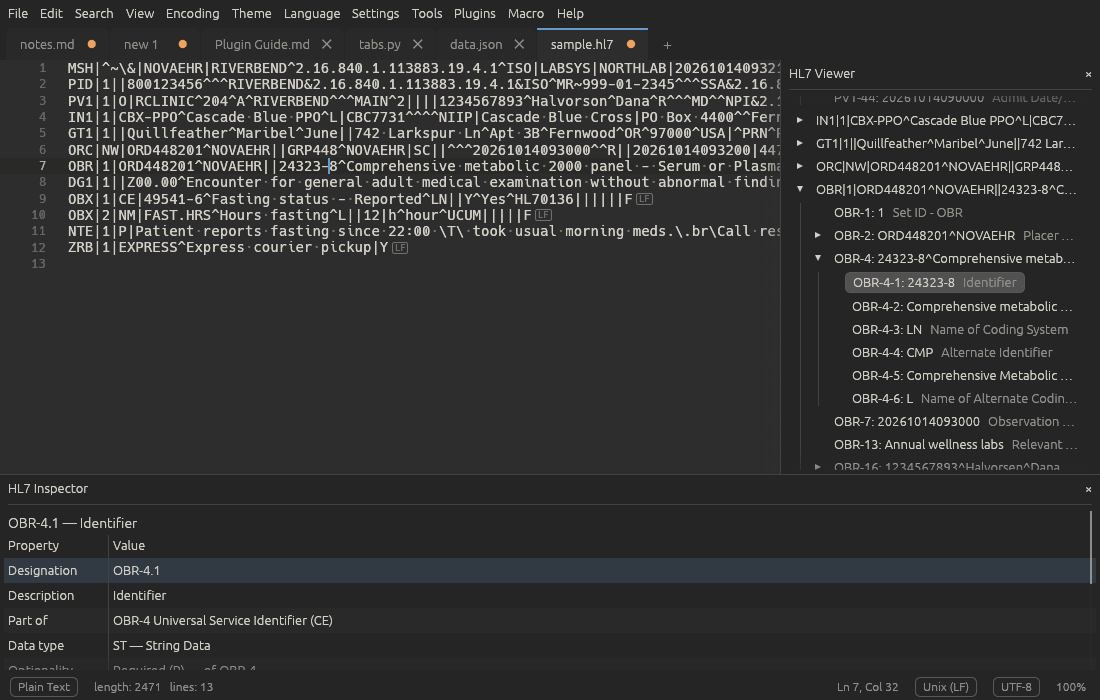
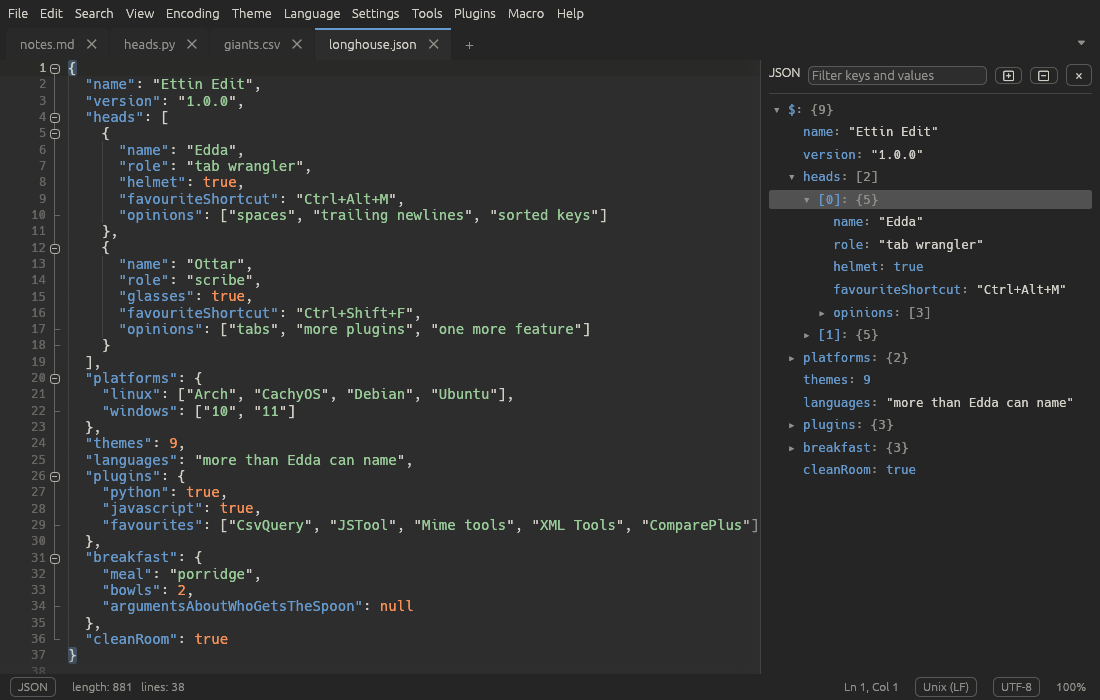
Friendlier README with the Edda and Ottar mascot and a JSON screenshot
The front page now opens with an original two-headed ettin mascot, a
feature summary table, an install table, a plugin example and a short
FAQ. The screenshot shows a JSON file with the JSON tree panel instead
of HL7, and the code layout table moves into a collapsed section.

Claude-Session: https://claude.ai/code/session_01Ej52JTQM4oZFRSUENRuK13

diff --git a/README.md b/README.md
@@ -1,68 +1,126 @@
-# Ettin Edit
+<p align="center">
+  <img src="docs/mascot/ettin.svg" width="240" alt="Edda and Ottar, the two-headed Ettin Edit mascot, holding a scroll and a quill">
+</p>
 
-A modern, cross-platform text editor for Linux and Windows, inspired by Notepad++.
-Ettin Edit is an original, clean-room implementation written in Rust: it shares no code with Notepad++.
+<h1 align="center">Ettin Edit</h1>
 
-![Ettin Edit dark theme](docs/screenshots/dark.png)
+<p align="center">
+  <b>A text editor with two heads, because one opinion about tabs was never enough.</b><br>
+  Fast, friendly and free of Notepad++ code. Runs on Linux and Windows.
+</p>
 
-## Status
+<p align="center">
+  <a href="https://github.com/Tharkis/Ettin-Edit/releases/latest"><img alt="Latest release" src="https://img.shields.io/github/v/release/Tharkis/Ettin-Edit?color=6699CC&label=release"></a>
+  <img alt="Linux and Windows" src="https://img.shields.io/badge/runs%20on-Linux%20%7C%20Windows-CC99CC">
+  <img alt="Written in Rust" src="https://img.shields.io/badge/written%20in-Rust-F99157">
+  <img alt="Plugins in Python or JavaScript" src="https://img.shields.io/badge/plugins-Python%20%7C%20JavaScript-99CC99">
+</p>
 
-Ettin Edit 1.0 makes it yours. Settings > Preferences (Ctrl+,) sets the editor font
-from your installed fonts, tab width, new-document defaults and more; the Shortcut
-Mapper rebinds any command; Theme > Edit Theme Colours changes any colour with a live
-preview; and F1 opens a command palette. New panels show a function list, a document
-map and a folder as a workspace, and F11 hides everything but the text. There are 17
-more languages (TOML, INI, TypeScript, PowerShell, Dockerfile, HL7, Kotlin, Swift and
-others) and you can add your own with a short `.lang.json` file
-([docs/languages.md](docs/languages.md)). XML Tools validate against an XSD or DTD and
-run XSL transforms. File > Print goes through your browser's print preview, Help >
-Check for Updates looks for new releases, and Plugins > Manage Plugins installs,
-updates and removes plugins. Windows gets an installer and Debian/Ubuntu a `.deb`.
+<p align="center">
+  <a href="#install">Install</a> ·
+  <a href="#what-it-does">Features</a> ·
+  <a href="#plugins">Plugins</a> ·
+  <a href="#building">Build</a> ·
+  <a href="FEATURES.md">Full feature list</a>
+</p>
 
-Release 0.10 renamed NixPad to Ettin Edit (settings, sessions, themes and plugins are
-copied over the first time it starts). Ettin Dark, based on Base16 Eighties, is the new
-default theme, and every built-in theme is now a file in the themes folder that you can
-edit. Tabs show as an arrow across their full width when whitespace is shown, and code
-folding has boxed −/+ markers with lines showing where each region starts and ends. The
-new HL7 Viewer plugin shows HL7 v2 messages as a tree and explains any field: its
-designation, name, data type, optionality and repeatability, with a box to change it.
-Release 0.9 added plugins in Python or JavaScript. A plugin can read and change text,
-open and save files, add menu commands and shortcuts, react to events and show panels
-with trees, tables and forms. Plugins > Install Sample Plugins adds them to try, and
-Plugins > Plugin Guide explains how to write your own ([docs/plugins.md](docs/plugins.md)).
-Release 0.8 added CsvQuery: SQL over the CSV or TSV file you have open, with joins
-across open tabs, a sortable results grid, column statistics, and results to a new tab.
-Release 0.7 added split view (two tabs side by side, or one document in both views)
-and Compare, a built-in take on ComparePlus: compare two tabs, the last save, the
-clipboard, the last Git commit or two selections, with word-level highlights, moved
-blocks, an overview bar and patch export. Release 0.6 added the Tools menu, with built-in versions of three favourite Notepad++
-plugins. JSON and JavaScript tools format, minify, validate and sort, with a live JSON
-tree. MIME tools cover Base64, URL, quoted-printable, HTML entities and SAML. XML tools
-pretty print, check syntax (optionally on save), run XPath queries, show the current
-XPath on the status bar, and close tags as you type. Release 0.6.1 put the Edit and Tools menus in the editor's right-click menu. It all builds on 0.5's encodings,
-backups and file commands, 0.4's editing tools, 0.3's search and 0.2's editor engine.
-See [FEATURES.md](FEATURES.md) for what works today and what is still missing.
+---
 
-## Installing
+## Meet the heads
 
-Download the latest build from the
+In Norse myth an *ettin* is a giant, and the famous ones had more than one head.
+Ours has two, and they share one body, one tunic and, sadly, one breakfast bowl.
+
+- **Edda** (left, helmet) keeps your tabs in order, your indentation straight and
+  your JSON sorted. She has never once lost an unsaved file and would like you to
+  know it.
+- **Ottar** (right, glasses) writes everything down, compares everything with
+  everything else and keeps asking for one more plugin.
+
+They argue a lot. You get an editor that does both.
+
+![Ettin Edit with a JSON file open and the JSON tree panel beside it](docs/screenshots/dark.png)
+
+## What it does
+
+Ettin Edit is a clean-room editor inspired by Notepad++. It looks the same on every
+platform because it draws its own window with [egui](https://github.com/emilk/egui),
+and it carries built-in versions of the Notepad++ plugins people install first.
+
+| | |
+| --- | --- |
+| ✍ **A proper editor** | Tabs, split view, multiple carets, column editing, code folding, macros, bookmarks, auto-close and smart indent. Opens a 50 MB file in about a second. |
+| 🎨 **Looks good in the dark** | Nine themes (Ettin Dark is the default), every one an editable file, plus a colour editor with live preview. Drop in any `.tmTheme` you like. |
+| 🔎 **Finds things** | Find and replace with regex, Find All in open tabs, Find in Files in the background, marks and a results panel. |
+| 🧰 **Tools menu** | JSON and JavaScript formatting, minifying and a live JSON tree (JSTool). Base64, URL, HTML entities and SAML (MIME tools). XPath, pretty print, XSD/DTD validation and XSLT (XML Tools). |
+| ⚖ **Compare** | Two tabs, the last save, the clipboard or your last Git commit, with word-level highlights and moved blocks (our take on ComparePlus). |
+| 📊 **CsvQuery** | Run SQL against the CSV you have open, join it with other open tabs and sort the results. Your spreadsheet would like a word. |
+| 🌍 **Text in any shape** | About 80 languages, plus your own with a short `.lang.json` file. UTF-8, UTF-16 and legacy code pages, every line ending, Chinese, Japanese and Korean text. |
+| 🧩 **Plugins in Python or JavaScript** | Your choice. Add commands, shortcuts and panels, and install them from Plugins > Manage Plugins. |
+| 🧭 **Panels** | Function list, document map, a folder workspace, and a command palette on F1. F11 hides everything except your words. |
+| 🛟 **Doesn't lose your work** | Sessions and backups of unsaved changes come back after a crash, a reboot or a cat on the keyboard. |
+| ⌨ **Yours to bend** | Preferences, fonts, and a Shortcut Mapper that rebinds any command. |
+
+Everything that works today, and the few things that don't yet, is ticked off in
+[FEATURES.md](FEATURES.md).
+
+## Install
+
+Grab the latest build from the
 [releases page](https://github.com/Tharkis/Ettin-Edit/releases/latest):
 
-- **Windows:** the `setup.exe` installer (no admin rights needed), or the `.zip` to run without installing.
-- **Arch / CachyOS:** `sudo pacman -U ./ettin-edit-*.pkg.tar.zst`
-- **Debian / Ubuntu:** `sudo apt install ./ettin-edit_*_amd64.deb`
-- **Other Linux:** extract the `.tar.gz` and run `./ettin-edit`.
+| You're on | Get this | Then |
+| --- | --- | --- |
+| **Windows** | `setup.exe` (no admin rights needed), or the `.zip` | Run it |
+| **Arch / CachyOS** | `.pkg.tar.zst` | `sudo pacman -U ./ettin-edit-*.pkg.tar.zst` |
+| **Debian / Ubuntu** | `.deb` | `sudo apt install ./ettin-edit_*_amd64.deb` |
+| **Any other Linux** | `.tar.gz` | Extract it and run `./ettin-edit` |
 
-### Building the Arch package yourself
+Help > Check for Updates tells you when a newer one is out.
 
-From a checkout of this repository:
+To build the Arch package yourself from a checkout:
 
 ```sh
 cd packaging/arch
 makepkg -si
 ```
 
-This builds a release binary and installs it with its icon and menu entry.
+## Plugins
+
+Write a plugin in whichever language you already know. This one adds a command that
+shouts the selection back at you:
+
+```python
+import ettin
+
+@ettin.command("Shout", shortcut="Ctrl+Alt+H")
+def shout():
+    doc = ettin.active()
+    doc.replace_selections(doc.selected_text().upper())
+
+ettin.run()
+```
+
+Plugins can read and change text, open and save files, react to events and show
+panels with trees, tables and forms. Plugins > Install Sample Plugins gives you
+three to poke at, including the HL7 Viewer, and the
+[plugin guide](docs/plugins.md) covers the rest.
+
+## Themes
+
+Ettin Edit ships with nine themes. Ettin Dark, the default, is based on Base16 Eighties;
+Ettin Night and Ettin Light are its own; the rest are classic schemes bundled with syntect.
+All of them live as TextMate `.tmTheme` files in the themes folder, so you can change
+any colour and pick **Theme > Reload Themes** to see it, or use
+**Theme > Edit Theme Colours** for a live preview. Any other `.tmTheme` file you
+put there appears under **Theme > Custom**. **Theme > Restore Built-in Themes** puts the
+originals back and keeps your edited copy as `<name>.tmTheme.bak`.
+
+- Linux: `~/.config/EttinEdit/themes/`
+- Windows: `%APPDATA%\EttinEdit\themes\`
+
+A built-in theme you haven't edited is updated when Ettin Edit is; one you have edited is
+left alone.
 
 ## Building
 
@@ -81,22 +139,21 @@ On Debian/Ubuntu: `sudo apt install libxkbcommon-x11-0 libgl1`.
 cross-compiled from Linux with `rustup target add x86_64-pc-windows-gnu` and the MinGW linker
 (`cargo build --release --target x86_64-pc-windows-gnu`).
 
-## Themes
+## FAQ
 
-Ettin Edit ships with nine themes. Ettin Dark, the default, is based on Base16 Eighties;
-Ettin Night and Ettin Light are its own; the rest are classic schemes bundled with syntect.
-All of them live as TextMate `.tmTheme` files in the themes folder, so you can change
-any colour and pick **Theme > Reload Themes** to see it. Any other `.tmTheme` file you
-put there appears under **Theme > Custom**. **Theme > Restore Built-in Themes** puts the
-originals back and keeps your edited copy as `<name>.tmTheme.bak`.
+**Is this Notepad++?** No. It's inspired by Notepad++ and shares none of its code.
+Every line was written from scratch for Ettin Edit.
 
-- Linux: `~/.config/EttinEdit/themes/`
-- Windows: `%APPDATA%\EttinEdit\themes\`
+**Why two heads?** One to write the code and one to review it. Also because the
+name was free.
 
-A built-in theme you haven't edited is updated when Ettin Edit is; one you have edited is
-left alone.
+**Does it run on Windows?** Yes, and on Linux, from the same code. Edda prefers
+Linux. Ottar won't say.
 
-## Code layout
+**Who gets the spoon?** Still being decided. Please don't open an issue about it.
+
+<details>
+<summary><b>Where things live in the code</b></summary>
 
 | File | What it does |
 | --- | --- |
@@ -147,3 +204,9 @@ left alone.
 
 The GUI uses [egui](https://github.com/emilk/egui)/eframe, which draws everything itself
 with OpenGL, so the look is identical on Linux and Windows.
+
+</details>
+
+---
+
+<p align="center"><sub>Mascot drawn for Ettin Edit. Edda and Ottar are not available for parties.</sub></p>
